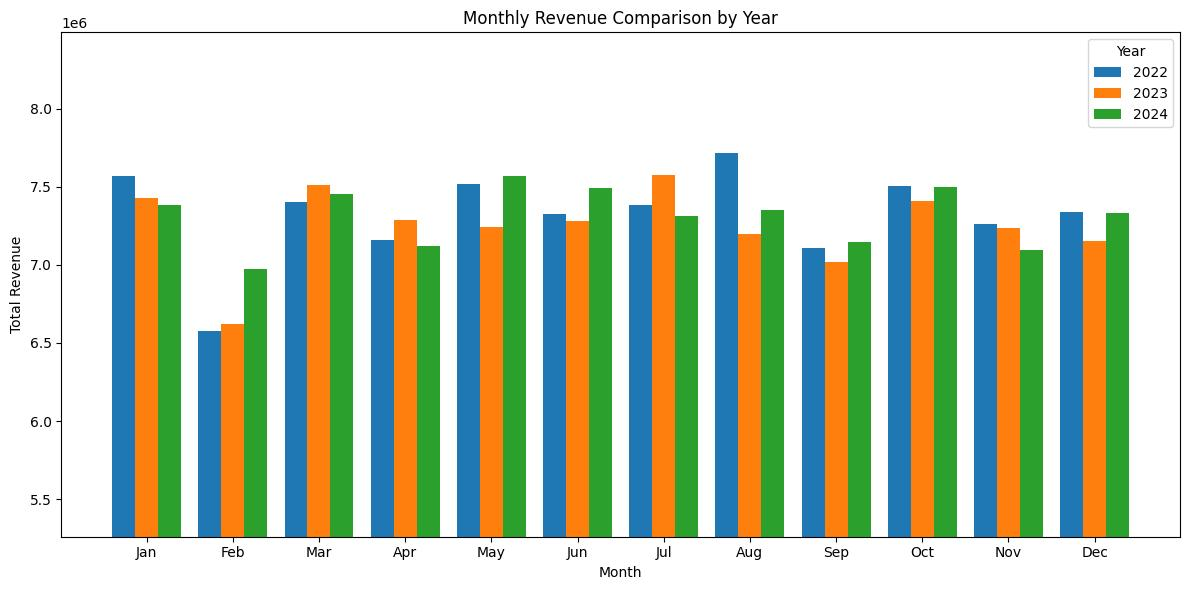
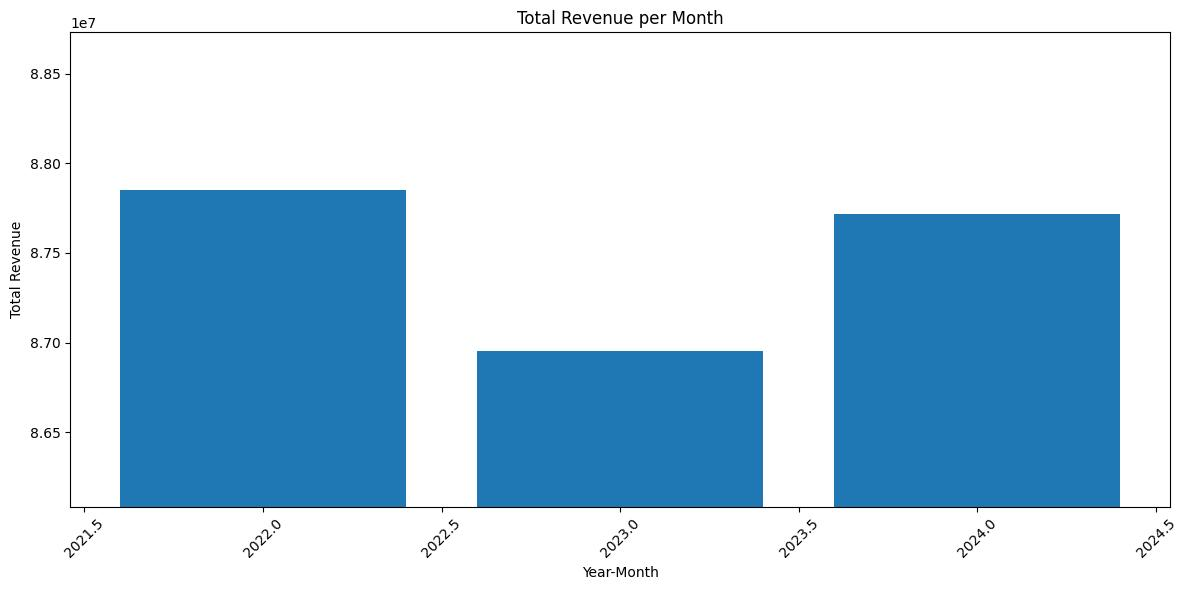
1- re-writing the requirements.txt, 2- re-ordering reports in readme.md, 3- re-naming some of the functions, 4- getting a better version for the introduction section of the readme file from chatgpt based on the previous writings

diff --git a/Project.py b/Project.py
@@ -538,8 +538,53 @@ loads["month"] = loads["load_date"].dt.month
 fuel_purchases["year_month"] = fuel_purchases["purchase_date"].dt.to_period("M")
 
 
-#region revenue_per_month_yearly_compared
+#region Total Revenue per Year 
 def r1():
+    revenue_per_year = loads.groupby("year")["revenue"].sum().sort_index()
+    
+    plt.figure(figsize=(12,6))
+    plt.bar(revenue_per_year.index, revenue_per_year.values)
+
+    # Calculate min and max
+    y_min = revenue_per_year.min()
+    y_max = revenue_per_year.max()
+
+    # Apply 20% padding
+    lower_limit = y_min * 0.99
+    upper_limit = y_max * 1.01
+    plt.ylim(lower_limit, upper_limit)
+
+    plt.xticks(rotation=45)
+    plt.title("Total Revenue per Month")
+    plt.xlabel("Year-Month")
+    plt.ylabel("Total Revenue")
+    plt.tight_layout()
+    
+    plt.savefig(f"{script_dir}/media/report_01.jpg", bbox_inches="tight")
+    if __name__ == "__main__":
+        plt.show()
+
+#endregion
+
+#region Total Revenue per Month 
+def r2():
+    revenue_per_month = loads.groupby("year_month")["revenue"].sum().sort_index()
+    plt.figure(figsize=(12,6))
+    plt.plot(revenue_per_month.index.astype(str), revenue_per_month.values)
+    plt.xticks(rotation=45)
+    plt.title("Total Revenue per Month")
+    plt.xlabel("Year-Month")
+    plt.ylabel("Total Revenue")
+    plt.tight_layout()
+    
+    plt.savefig(f"{script_dir}/media/report_02.jpg", bbox_inches="tight")
+    if __name__ == "__main__":
+        plt.show()
+
+#endregion
+
+#region revenue_per_month_yearly_compared
+def r3():
     # Group and sum revenue
     monthly_revenue = loads.groupby(["year", "month"])["revenue"].sum().reset_index()
     
@@ -574,51 +619,6 @@ def r1():
     plt.title("Monthly Revenue Comparison by Year")
     plt.legend(title="Year")
 
-    plt.tight_layout()
-    
-    plt.savefig(f"{script_dir}/media/report_01.jpg", bbox_inches="tight")
-    if __name__ == "__main__":
-        plt.show()
-
-#endregion
-
-#region Total Revenue per Year 
-def r2():
-    revenue_per_year = loads.groupby("year")["revenue"].sum().sort_index()
-    
-    plt.figure(figsize=(12,6))
-    plt.bar(revenue_per_year.index, revenue_per_year.values)
-
-    # Calculate min and max
-    y_min = revenue_per_year.min()
-    y_max = revenue_per_year.max()
-
-    # Apply 20% padding
-    lower_limit = y_min * 0.99
-    upper_limit = y_max * 1.01
-    plt.ylim(lower_limit, upper_limit)
-
-    plt.xticks(rotation=45)
-    plt.title("Total Revenue per Month")
-    plt.xlabel("Year-Month")
-    plt.ylabel("Total Revenue")
-    plt.tight_layout()
-    
-    plt.savefig(f"{script_dir}/media/report_02.jpg", bbox_inches="tight")
-    if __name__ == "__main__":
-        plt.show()
-
-#endregion
-
-#region Total Revenue per Month 
-def r3():
-    revenue_per_month = loads.groupby("year_month")["revenue"].sum().sort_index()
-    plt.figure(figsize=(12,6))
-    plt.plot(revenue_per_month.index.astype(str), revenue_per_month.values)
-    plt.xticks(rotation=45)
-    plt.title("Total Revenue per Month")
-    plt.xlabel("Year-Month")
-    plt.ylabel("Total Revenue")
     plt.tight_layout()
     
     plt.savefig(f"{script_dir}/media/report_03.jpg", bbox_inches="tight")

diff --git a/README.md b/README.md
@@ -1,53 +1,44 @@
-<!-- TODO: recheck the whole readme sectoin with chatgpt -->
-this project aims to analyze logistic data from a trucking company
-this git repository also holds data for python notes which were writen from MFT DataAnalysis Course i completed lately, and will be removed in later commits
+This project aims to analyze operational logistics data from a trucking company in order to evaluate financial performance, cost efficiency, and route-level profitability. The repository also temporarily contains personal Python notes from the MFT Data Analysis Course, which will be removed in future revisions to maintain a clean project structure.
+The dataset used in this analysis is available on Kaggle:
+https://www.kaggle.com/datasets/yogape/logistics-operations-database
+It represents a simulated yet realistic relational database of a Class 8 trucking company covering the years 2022–2024. The data includes interconnected tables for drivers, trucks, customers, routes, loads, fuel purchases, maintenance records, and performance metrics. Due to its multi-table relationships, financial transactions, and time-series structure, the dataset requires proper data modeling, joins, and analytical techniques to extract meaningful insights. Its relational design makes it well-suited for dashboard development, cost analysis, and profitability evaluation.
+A database schema diagram illustrating the relationships between tables is available at:
+https://dbdiagram.io/d/Logistics-Operations-Database-6976750ebd82f5fce28c51a8
+The diagram was created using DBML (Database Markup Language).
+Data Preparation Principles
+The following principles were applied during data preparation and transformation:
+•	Categorical Encoding: Text-based categorical variables were converted into indexed numeric representations to reduce memory usage and improve grouping and join performance.
+•	Type Enforcement: Explicit data type assignments were applied to ensure consistency in calculations, comparisons, and time-based analysis.
+•	Referential Consistency: Shared attributes such as states and cities were consistently encoded across tables to maintain relational integrity and prevent mismatches during joins.
+Implementation Overview
+The analytical workflow was structured as follows:
+•	Required Python libraries were imported and configured.
+•	A custom class was implemented to normalize operating hours by separating opening and closing times and generating a boolean flag for 24/7 operations.
+•	A utility class was developed to simplify inspection and descriptive output across all 13 dataframes.
+•	Pandas display settings were adjusted to improve readability during exploratory analysis.
+•	Relative file paths were prepared, and CSV files were loaded into structured dataframes.
+•	A reusable function was implemented to encode categorical columns and generate dictionary mappings for indexed values. These mappings were reused across multiple tables where applicable to reduce redundancy.
+•	A comprehensive data cleaning phase followed, including:
+o	Enforcing appropriate data types for each column.
+o	Normalizing operating hours into structured time columns to enable temporal analysis.
+o	Encoding selected categorical columns to improve computational performance.
+o	Handling missing values using appropriate strategies, primarily through controlled fillna() operations to preserve analytical flexibility. In cases where missing values were minimal and unlikely to impact results, selected rows were removed.
 
-dataset link: https://www.kaggle.com/datasets/yogape/logistics-operations-database
-This dataset represents a simulated but realistic operational database of a Class 8 trucking company covering three years (2022–2024). It includes interconnected tables for drivers, trucks, customers, routes, loads, fuel purchases, maintenance, and performance metrics
-Because it contains multi-table relationships, financial transactions, and time-series operational data, it requires proper data modeling, joins, and analytical techniques to extract insights. Its structure makes it a strong choice for building dashboards, performing cost and profitability analysis, and demonstrating real-world logistics analytics skills rather than basic descriptive reporting.
 
-this diagram shows the relations between 
-<!-- TODO: i should add the image of the diagram here, using an image hosting service -->
-link to the diagram: https://dbdiagram.io/d/Logistics-Operations-Database-6976750ebd82f5fce28c51a8
-the markup language used to create this diagram is DBML
+The reports are as below:
 
-A number of principles followed in this report for transfering data:
-- categorical encoding: Converting text categories into numeric representations reduces memory usage and speeds up comparisons, grouping, and joins.
-- type enforcement: Explicitly enforcing data types prevents unexpected behavior in calculations, comparisons, and time-based operations.
-- referential consistency: Ensuring consistent encoding of shared attributes (e.g., states or cities) preserves integrity across joins and prevents relational mismatches.
-
-allow me to walk you through what ive done within this report:
-first i imported some packages and libraries. (you can tell me to add any other library and i will add them too for my reports)
-- then i craeted a class that ill later be using for splitting certain columns cotaining open and close time, which putting it simple, has to get the dataframe itself, and perform some operations on it to separate start time from end time, and generate a column containing a boolean flag for companies that are open 24/7
-- then there is a PrintClass class, which is kind of a debugging toll for me. it helps me print some descriptions for all 13 dataframes i have easier.
-- there are some modifications in the display setting of pandas
-- preparing the relative path
-- then I'll be reading the csv files containing data for each table
-- also there is function which categorizes items within a column, gives each one an integer index for better performance. it will be used for the cleaning section (next part)
-- then there is this huge section, trying to transfer data and cleaning them, by changing each columns data type to what it should be, and applying some changes in some of them in order to improve the performance 
-** Operating hours were normalized into structured time columns to enable temporal performance analysi
-** some columns data will be categorized and indexed in order to improve performance, in these cases there are some variables included and named based on the dataframeName_columName which contain the dictionary showing what each index represents in that column
-** some of these dictionaries are used across multiple dataframes which will help reducing redundant data (like state names, city names, etc.)
-- after preparing data types and indexing them, we will deal with nan and nat data within each dataframe. comments in this section represent the mindset i had behind what i did
-** i mostly used the fillna option and filled nan data with a placeholder so i can prepare some reports on that nan data itself, also some of na values are kept, and there is one case i droped rows with nan values as i think i had a reach amount of data within that dataframe and an small amount of nan values will not matter that much
-- then there is this simple report i created as a test. 
-
-now to the main reports
-company financial performance
-these charts show total company revenue over the given time span:
-these are the 4 reports prepared for this purpose: 
-1- comparision of revenue change over each month
-This report was created to compare monthly revenue patterns across multiple years and identify seasonal trends or structural changes in business volume. It helps determine whether revenue fluctuations are part of normal seasonality or indicate meaningful shifts in overall performance.
-<!-- TODO add picture -->
-The monthly revenue comparison across 2022–2024 shows a relatively stable revenue structure with moderate seasonal fluctuations rather than extreme growth or decline. Revenues consistently range between roughly 6.5M and 7.7M, suggesting operational stability and steady demand. Some seasonal tendencies appear, such as stronger performance in mid-to-late year months (particularly August 2022 and July 2023), while February tends to be one of the weaker months across years. Although there are minor year-to-year shifts within specific months, there is no clear long-term upward or downward revenue trend over the three-year period, indicating that overall business volume remained steady. This stability, combined with declining fuel costs observed earlier, suggests that profitability conditions may have improved over time even without significant revenue growth.
-
-2- Total Revenue per Year
+1- Total Revenue per Year
 <!-- TODO add picture -->
 Total annual revenue remains highly stable across the three-year period, fluctuating within a narrow range of approximately 86.9M to 87.9M. While 2023 shows a slight dip compared to 2022, revenue recovers in 2024, indicating no significant long-term growth or decline. This stability suggests consistent business volume, making profitability improvements more likely driven by cost efficiency rather than revenue expansion.
 
-3- Total Revenue per Month 
+2- Total Revenue per Month 
 <!-- TODO add picture -->
 Monthly revenue remains consistently within the 6.5M–7.7M range across the entire period, showing moderate seasonality rather than volatility. Peaks commonly appear in mid-year months, while February tends to be one of the weaker months. The absence of extreme spikes or drops suggests stable operational demand and predictable freight volume. This consistency supports reliable planning for fleet utilization, staffing, and cash flow management, while also reinforcing that performance improvements are more likely tied to cost control than revenue growth.
+
+3- comparision of revenue change over each month
+This report was created to compare monthly revenue patterns across multiple years and identify seasonal trends or structural changes in business volume. It helps determine whether revenue fluctuations are part of normal seasonality or indicate meaningful shifts in overall performance.
+<!-- TODO add picture -->
+The monthly revenue comparison across 2022–2024 shows a relatively stable revenue structure with moderate seasonal fluctuations rather than extreme growth or decline. Revenues consistently range between roughly 6.5M and 7.7M, suggesting operational stability and steady demand. Some seasonal tendencies appear, such as stronger performance in mid-to-late year months (particularly August 2022 and July 2023), while February tends to be one of the weaker months across years. Although there are minor year-to-year shifts within specific months, there is no clear long-term upward or downward revenue trend over the three-year period, indicating that overall business volume remained steady. This stability, combined with declining fuel costs observed earlier, suggests that profitability conditions may have improved over time even without significant revenue growth.
 
 4- Average fuel cost in each year/month
 this analysis shows the trends behind fuel cost change over time
